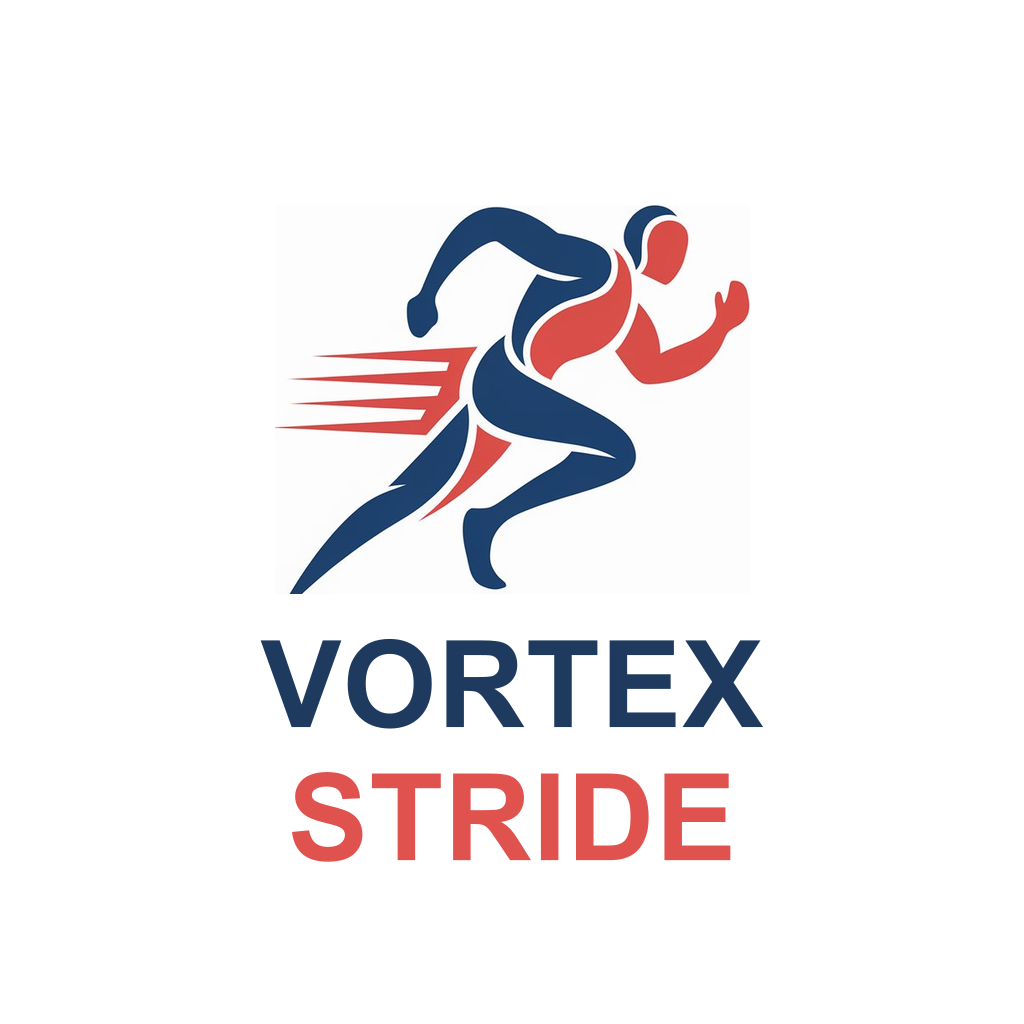
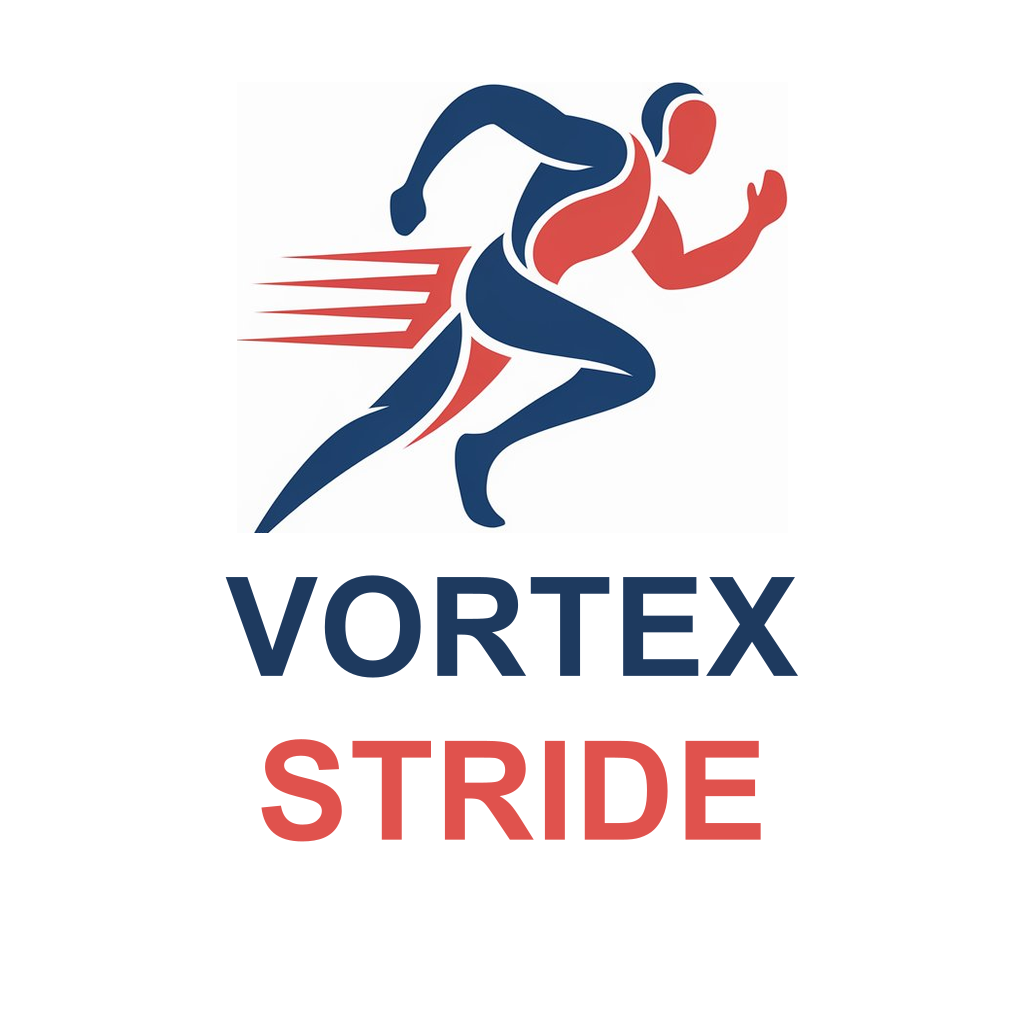
style(pwa): icona — ingrandito il gruppo runner+scritta per riempire il canvas
Runner a 74% larghezza / 44% altezza (era 60/38), font 13.5% (era
11.8%), margini ridotti. Il logo ora occupa ~85% dell'icona, meno
spazio bianco. Maskable (runner-only) invariate.

SW: cache v11 → v12.

Changed region(s): [[0.2188, 0.0625, 0.7812, 0.8438]]

diff --git a/public/sw.js b/public/sw.js
@@ -26,7 +26,8 @@
 //   v9 → Icone maskable separate (runner 60% safe-zone, niente tagli)
 //   v10 → Icona "any" finale: runner + scritta VORTEX STRIDE (Opzione B)
 //   v11 → Icona: runner avvicinato alla scritta (meno spazio bianco)
-const CACHE_NAME  = 'didio-v11';
+//   v12 → Icona: gruppo runner+scritta ingrandito per riempire il canvas
+const CACHE_NAME  = 'didio-v12';
 const OFFLINE_URL = '/offline.html';
 
 const PRECACHE = [